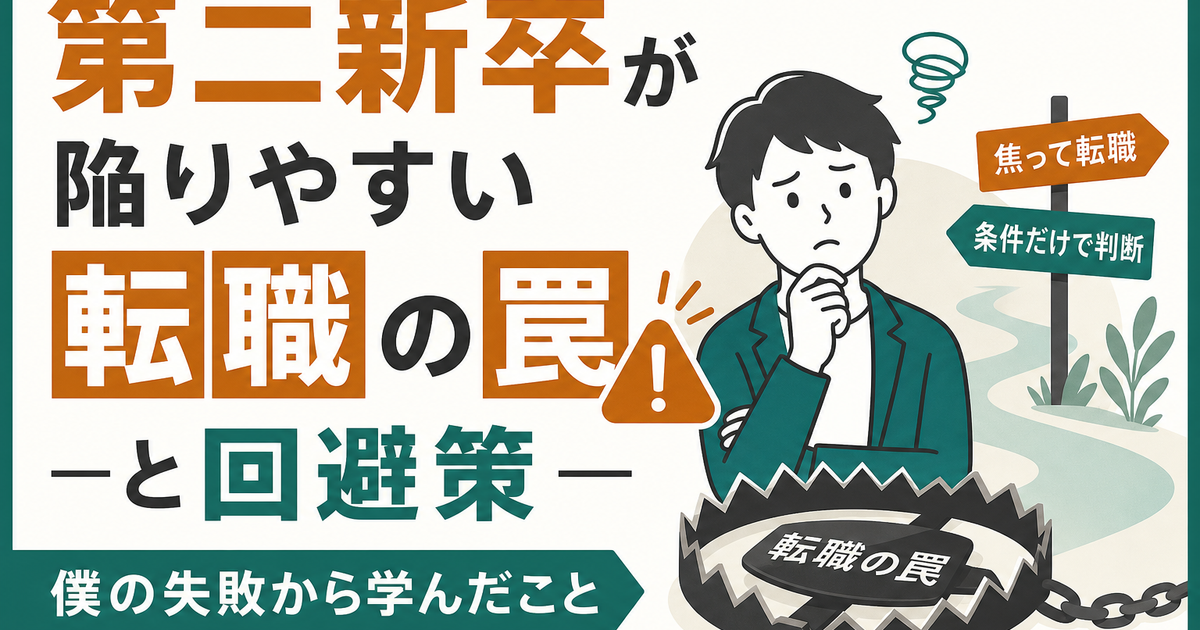
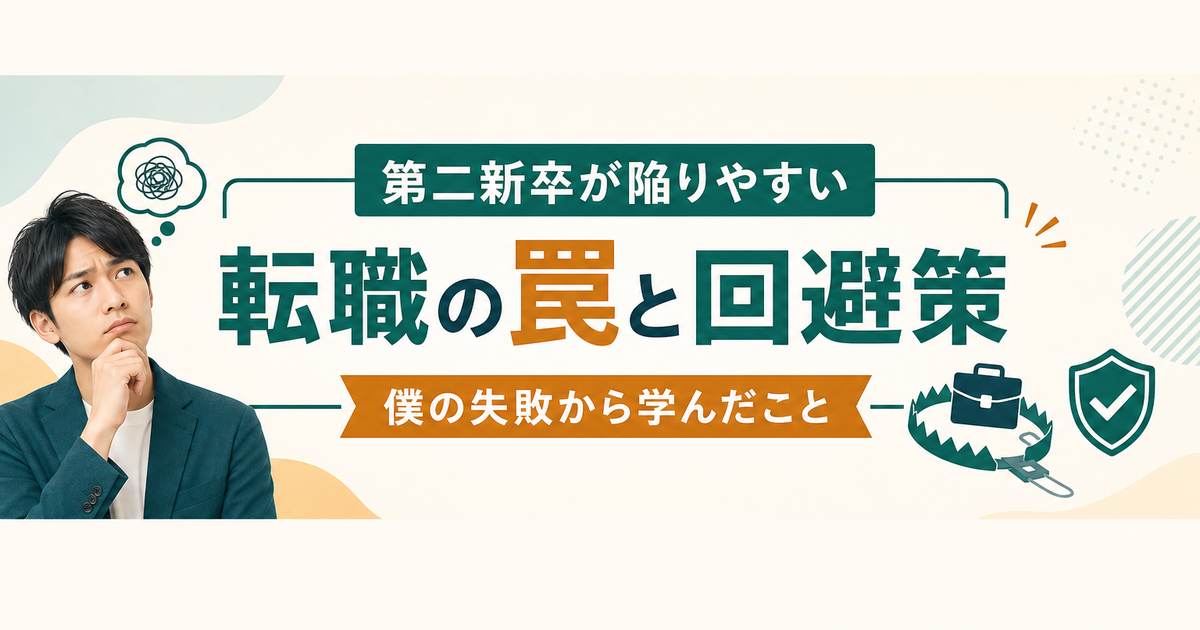
fix: サムネイル見切れ問題を修正
生成プロンプトに「上下15%に重要要素を配置しない」レイアウト指示を追加。
3:2→1.91:1クロップ時に人物やタイトルが切れなくなるよう構図を制御。
新規3記事のサムネイルを再生成。

diff --git a/scripts/generate-thumbnail.js b/scripts/generate-thumbnail.js
@@ -29,7 +29,22 @@ const HEIGHT = 630;
 // ---------------------------------------------------------------------------
 
 function buildPrompt(title) {
-  return `1.91対1の比率で、オウンドメディアの記事のサムネイルを作ってほしい。タイトルは「${title}」です。情報量を少なくして、わかりやすくしてください。メインカラーはアンバー(#B5691B)とティーングリーン(#1F6F66)を使ってください。実在する企業のロゴ・商標・ブランドマークは一切描かないでください。社名を画像内に文字として含めないでください。サービス名を示したい場合は、社名ではなく一般的な言葉(例:「エージェントA」「エージェントB」)で表現してください。`;
+  return `横長のワイド構図（アスペクト比 約2:1）で、オウンドメディアの記事サムネイルを作ってほしい。タイトルは「${title}」です。
+
+【レイアウト厳守 — 最重要】
+- この画像は横長の枠（2:1）に表示される。上下が少しでもクロップされると要素が消えるため、以下を厳守すること
+- すべての重要な要素（人物、タイトル文字、アイコン）は、画像の上下中央30%の帯（上端35%〜下端65%）に集中させること
+- 画像の上端20%と下端20%は「安全マージン」として、背景色のみ・装飾なしの空白にすること
+- 人物を描く場合は胸から上のバストショットにし、頭頂部の上に画像高さの20%以上の余白を確保すること
+- テキストは画像の垂直中央に配置し、上端・下端に近づけないこと
+- 左右にも10%以上の余白を確保すること
+
+【デザイン】
+- 情報量を少なくして、わかりやすくする
+- メインカラーはアンバー(#B5691B)とティーングリーン(#1F6F66)
+- 実在する企業のロゴ・商標・ブランドマークは一切描かない
+- 社名を画像内に文字として含めない
+- サービス名を示す場合は一般的な言葉(例:「エージェントA」)で表現する`;
 }
 
 // ---------------------------------------------------------------------------